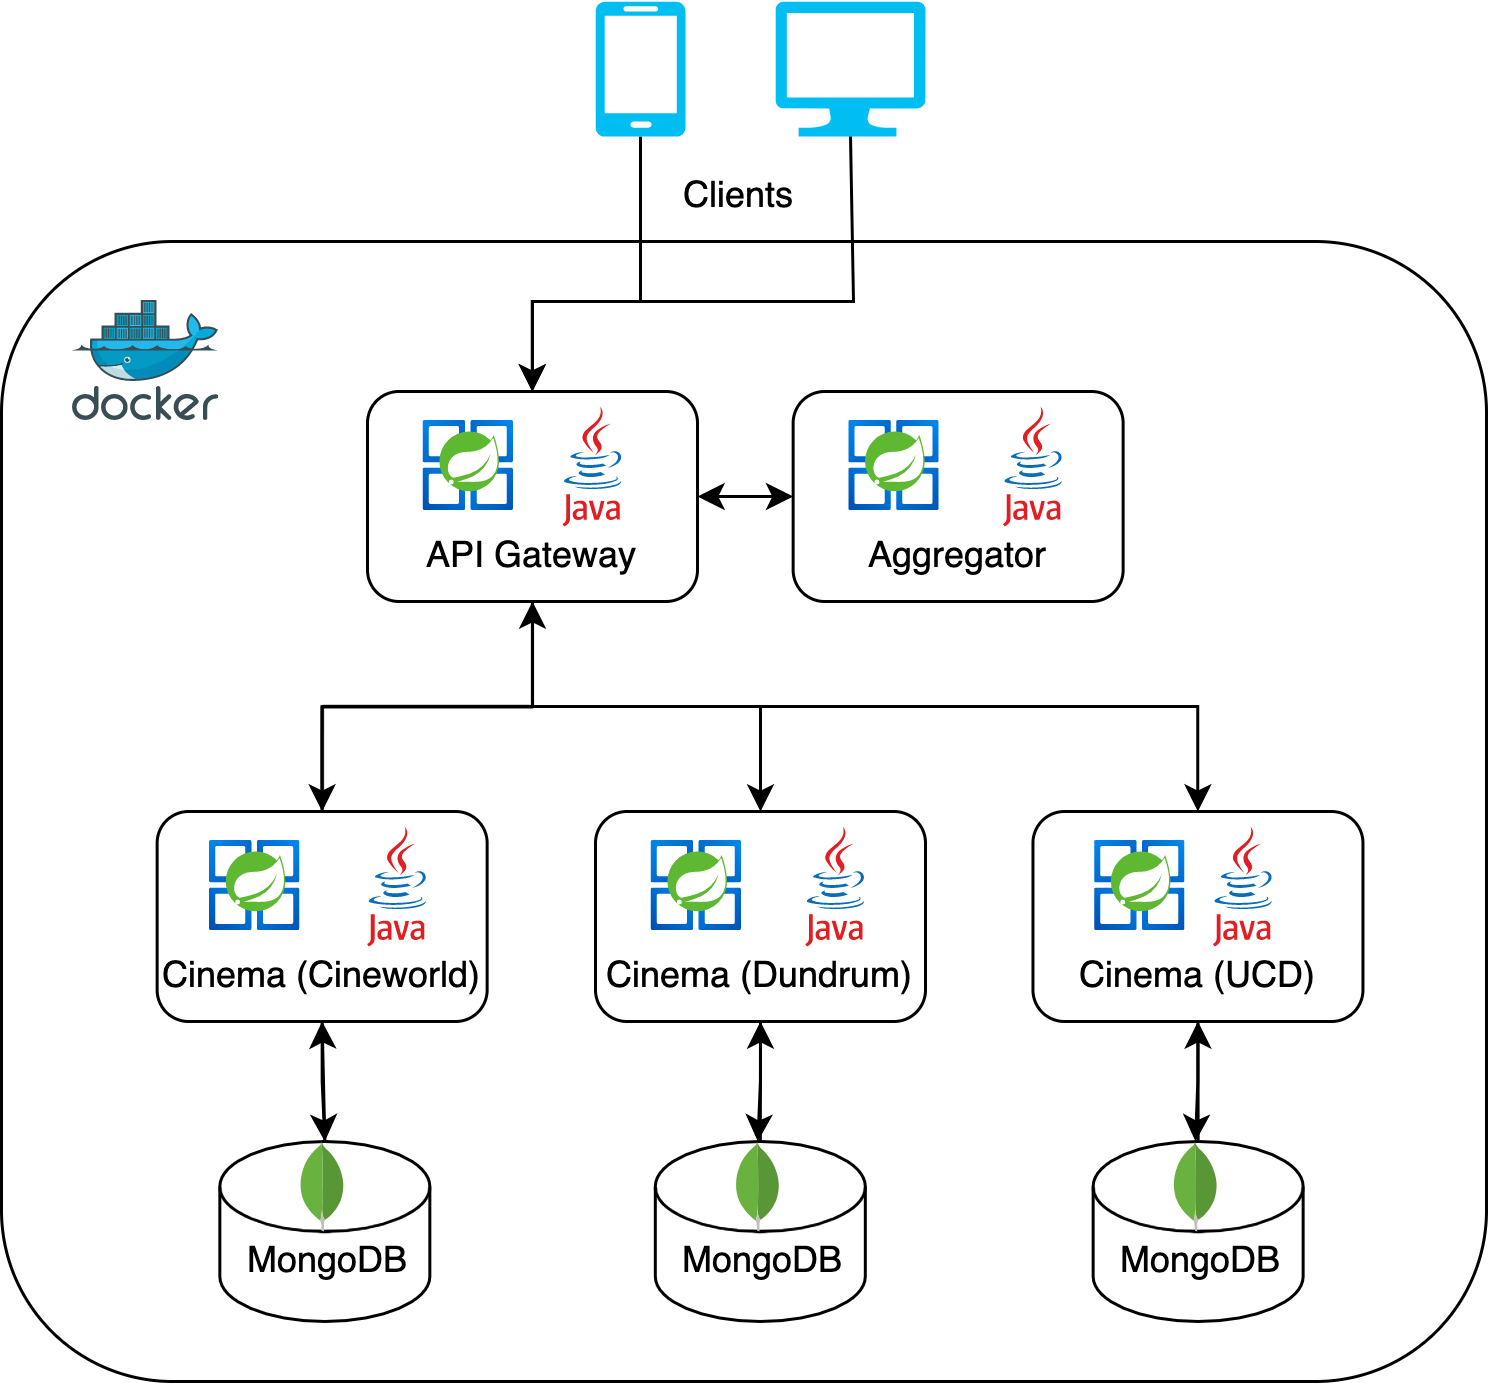
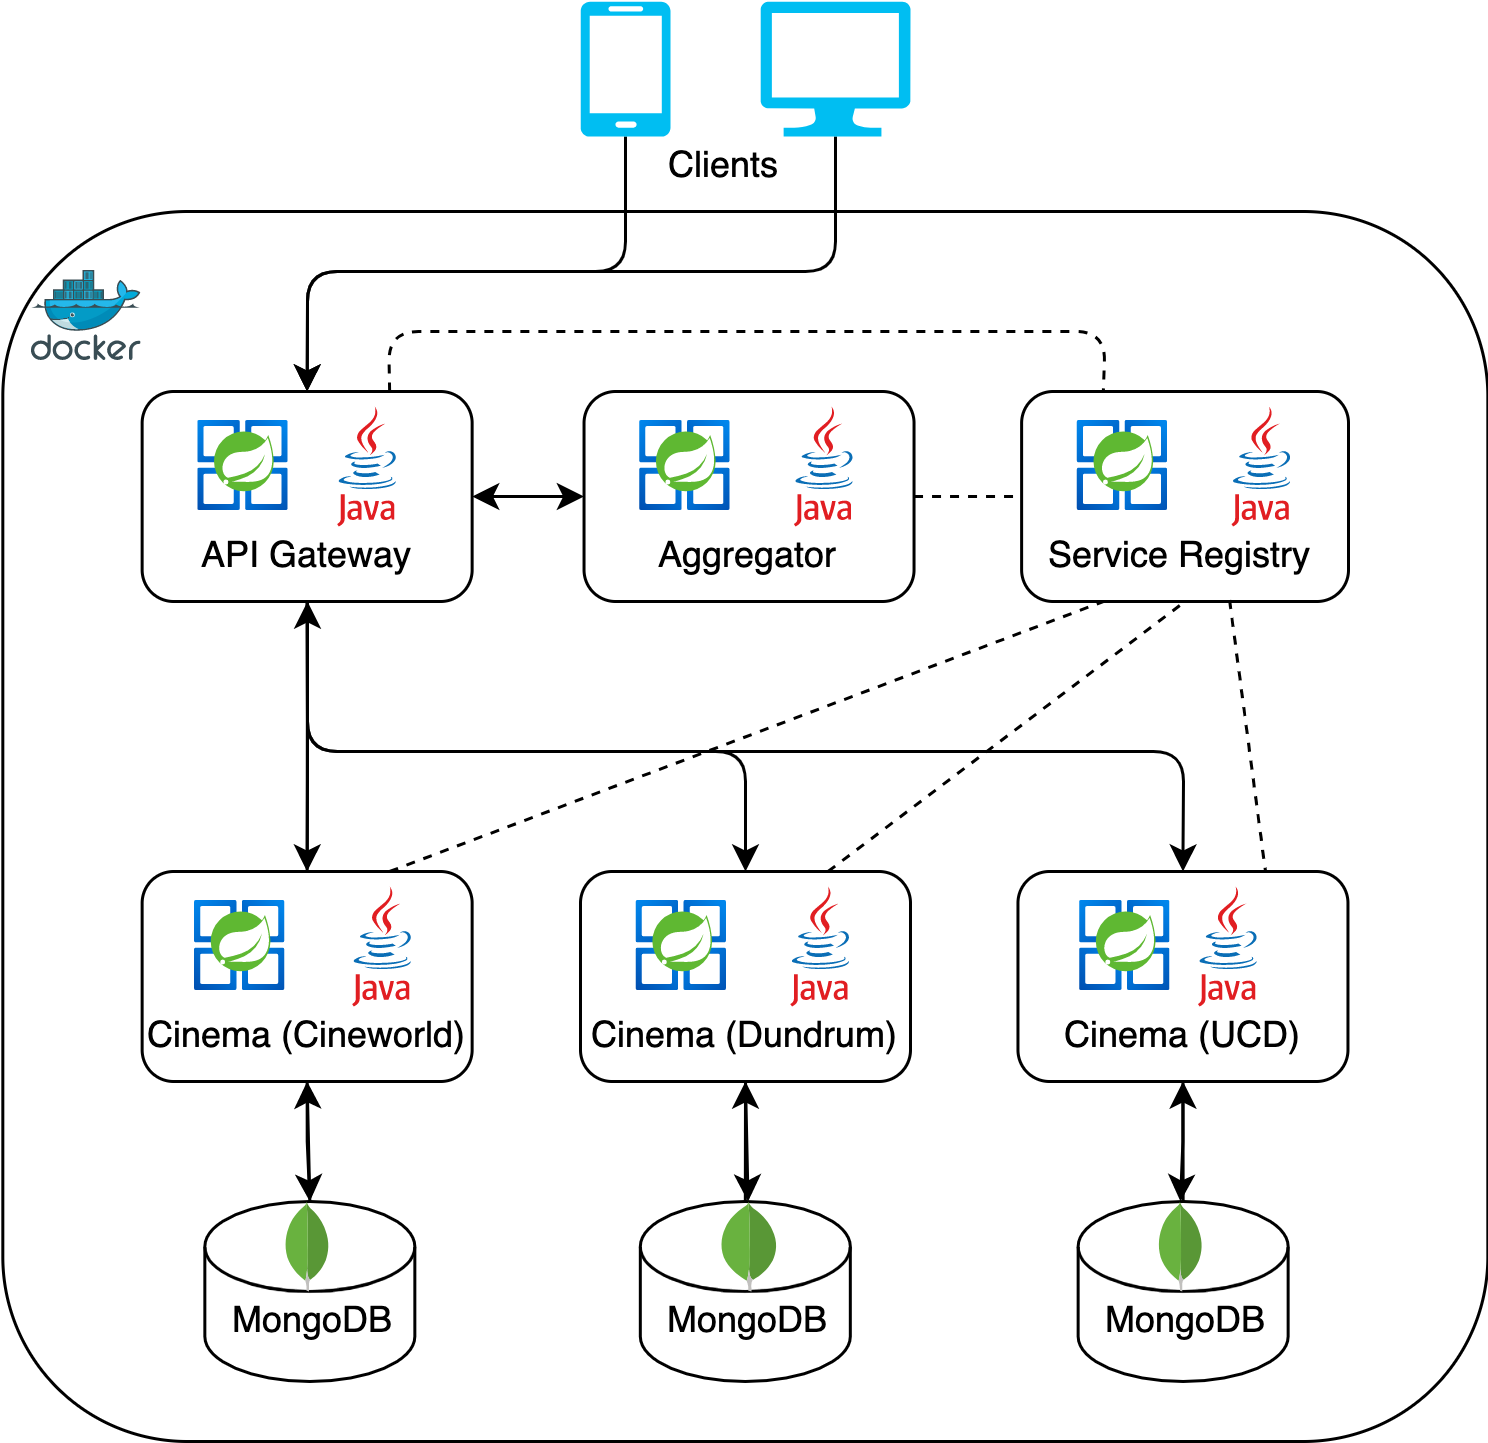
CS01 service discovery

diff --git a/report/chapters/case-study-01.tex b/report/chapters/case-study-01.tex
@@ -11,7 +11,7 @@ The pilot case study implements the movie ticket reservation system prototype de
   \label{fig:cs01-arch}
 \end{figure}
 
-The architecture diagram above (Fig. \ref{fig:cs01-arch}) depicts the organisation of the microservices involved: an API gateway service to act as an interface between clients and other services, and aggregator service to gather results, and three independent cinema services - Cineworld, Dundrum and UCD. The following microservice design patterns have been employed while developing this web application:
+The architecture diagram above (Fig. \ref{fig:cs01-arch}) depicts the organisation of the microservices involved: an API gateway service to act as an interface between clients and other services, and aggregator service to gather results, a central service registry, and three independent cinema services - Cineworld, Dundrum and UCD. The following microservice design patterns have been employed while developing this web application:
 
 \subsubsection{API Gateway}
 
@@ -44,6 +44,30 @@ Spring Cloud Gateway paves the way for discussion on the next two design pattern
 \subsubsection{Circuit Breaker}
 
 \subsubsection{Client-side Service Discovery}
+
+\textit{Service discovery} is an essential design pattern for modern microservices, where the network location (host name/IP address and port number) may be dynamic due to the industry dominance of virtualisation and containerisation solutions to run microservice-based applications. Hard-coding the locations of services is then considered an anti-pattern, since it necessitates changes in multiple places when services are scaled up or down. Hence, a natural solution is to set up a service registry, which maintains the locations of all active services, and provides access to registered services through logical addresses. 
+
+Fig. \ref{fig:cs01-arch} shows the service registry, which is implemented using Spring Cloud Netflix (Eureka) \footnote{\url{https://spring.io/projects/spring-cloud-netflix}}. The server and client Maven dependencies are \code{spring-cloud-starter-netflix-eureka-server} and \code{spring-cloud-starter-netflix-eureka-client} respectively. The \code{eureka-server} service uses an \code{@EnableEurekaServer} annotation in its main application class to denote its server status (maintaining the service registry), and every other microservice uses a corresponding \code{@EnableEurekaClient} annotation (to self-register with the Eureka server on application startup). The server and sample client Configuration are shown in the following listings:
+
+\begin{lstlisting}[caption=Snippet from Eureka server's application properties]
+  eureka:
+    client:
+      register-with-eureka: false
+      fetch-registry: false
+\end{lstlisting}
+
+The server is prevented from trying to register itself. For the sample client configuration, the Spring Boot application attempts to contact the Eureka server on \code{code.client.serviceUrl.defaultZone}, which is specified in \code{docker-compose.yml}. Eureka clients also send regular heartbeat messages to the server (set using \code{lease-renewal-interval-in-seconds}) to maintain their active status. Once the server stops receiving heartbeats below an expected threshold, it starts evicting the instances from the registry; this is known as self-preservation. 
+
+\begin{lstlisting}[caption=Snippet from a Eureka client's application properties]
+  eureka:
+    instance:
+      lease-renewal-interval-in-seconds: 5
+    client:
+      register-with-eureka: true
+      fetch-registry: true
+      serviceUrl:
+        defaultZone: http://$\dollar${EUREKA_SERVER:eureka-server}:$\dollar${EUREKA_PORT:8761}/eureka/
+\end{lstlisting}
 
 \subsubsection{Aggregator}
 
